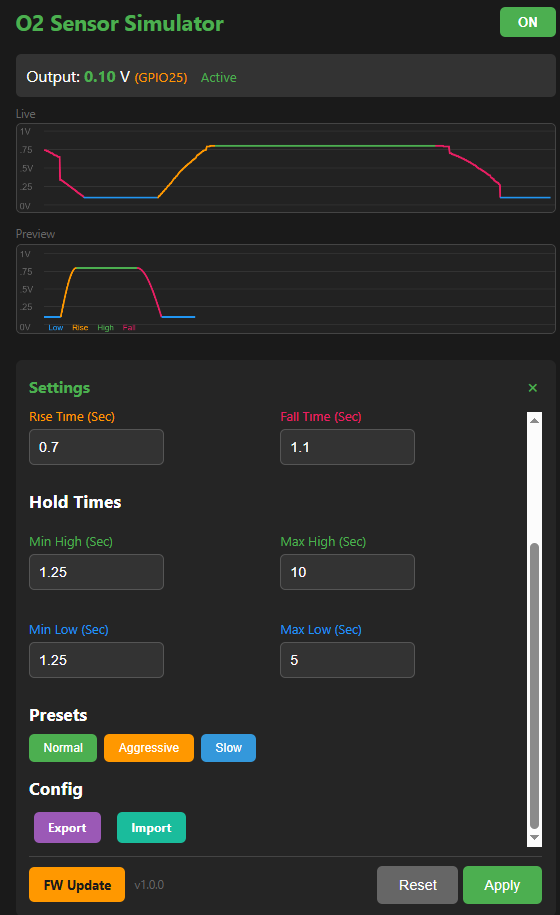
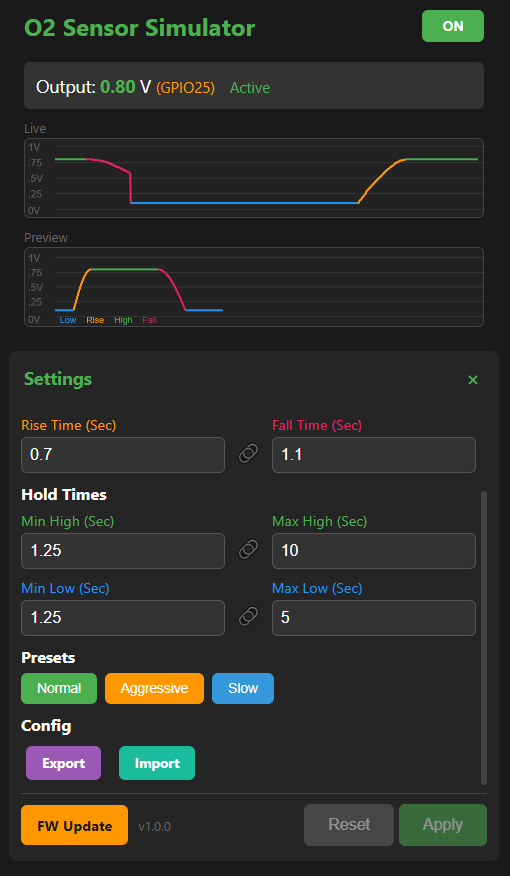
Update readme screenshot

diff --git a/readme.md b/readme.md
@@ -3,7 +3,7 @@
 ## Description
 Deleted your catalytic converter for "off road use"? Have a P0420/P0430 check engine code? This project simulates downstream O2 sensor readings using an ESP32 with a web-based control interface. Works for single or multiple sensors (connect all sensors to simulator output).
 
-![Web Interface](/page_preview.png)
+![Web Interface](page_preview.png)
 
 ## Features
 - **Web Interface** - Control and monitor via any browser (phone, tablet, laptop)
